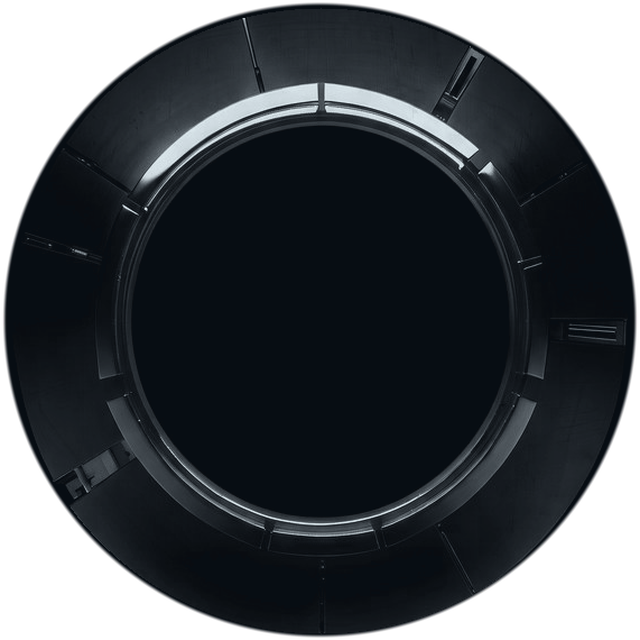
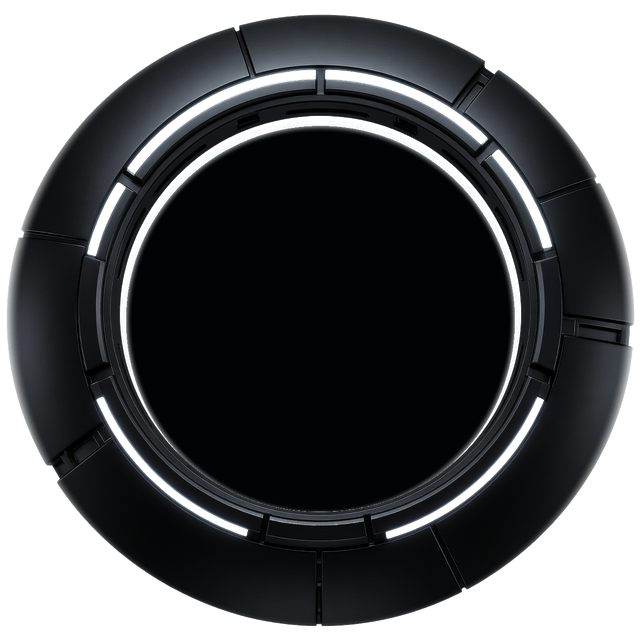
Reconstruit le cœur sur les quatre plaques détachées

Changed region(s): [[0.0, 0.0, 1.0, 1.0], [0.6875, 0.8438, 0.7188, 0.875]]

diff --git a/viewer/styles.css b/viewer/styles.css
@@ -40,12 +40,12 @@ button:focus-visible, input:focus-visible, textarea:focus-visible, a:focus-visib
 .core-ring img { animation: jarvis-core-spin 96s linear infinite; }
 /* Disque cyan lumineux, posé juste devant le logement métallique. */
 .core-disc { opacity: calc(.62 + .34 * var(--jarvis-voice)); transition: opacity .12s ease-out; }
-.core-disc img { width: 78%; height: 78%; mix-blend-mode: screen; animation: jarvis-core-spin 30s linear infinite; }
+.core-disc img { width: 72%; height: 72%; mix-blend-mode: screen; animation: jarvis-core-spin 30s linear infinite; }
 /* Verre strié en superposition légère : il donne la profondeur, pas la masse. */
-.core-veil { opacity: .40; transition: opacity .45s ease; }
-.core-veil img { width: 66%; height: 66%; mix-blend-mode: screen; animation: jarvis-core-spin-reverse 64s linear infinite; }
+.core-veil { opacity: .9; transition: opacity .45s ease; }
+.core-veil img { width: 90%; height: 90%; animation: jarvis-core-spin-reverse 64s linear infinite; }
 .core-light { opacity: calc(.74 + .26 * var(--jarvis-voice)); transition: opacity .12s ease-out; }
-.core-light img { width: 30%; height: 30%; mix-blend-mode: screen; animation: jarvis-core-pulse 3.8s ease-in-out infinite; }
+.core-light img { width: 40%; height: 40%; mix-blend-mode: screen; animation: jarvis-core-pulse 3.8s ease-in-out infinite; }
 .jarvis-core-beam { position: absolute; left: 50%; top: 62%; width: 46%; height: 62%; margin-left: -23%; transform: perspective(320px) rotateX(38deg); transform-origin: 50% 0; background: linear-gradient(180deg, rgba(120,235,255,.30), rgba(64,190,240,.10) 46%, transparent 86%); filter: blur(6px); opacity: .5; }
 .jarvis-core-base { position: absolute; left: 50%; top: 96%; width: 62%; height: 13%; margin-left: -31%; border-radius: 50%; background: radial-gradient(ellipse at center, rgba(96,226,255,.5), rgba(40,150,215,.14) 55%, transparent 78%); opacity: .55; }
 @keyframes jarvis-core-spin { from { transform: rotate(0deg); } to { transform: rotate(360deg); } }
@@ -54,7 +54,7 @@ button:focus-visible, input:focus-visible, textarea:focus-visible, a:focus-visib
 
 /* Parole : les anneaux accélèrent et s'éclairent, l'orbe bat plus vite. */
 body.jarvis-speaking .core-ring { opacity: 1; }
-body.jarvis-speaking .core-veil { opacity: .8; }
+body.jarvis-speaking .core-veil { opacity: 1; }
 body.jarvis-speaking .core-ring img { animation-duration: 34s; }
 body.jarvis-speaking .core-veil img { animation-duration: 22s; }
 body.jarvis-speaking .core-disc img { animation-duration: 11s; }
@@ -464,5 +464,5 @@ button:hover .chevron { color: var(--cyan); transform: translateX(2px); }
   *, *::before, *::after { scroll-behavior: auto !important; animation-duration: .01ms !important; animation-iteration-count: 1 !important; }
   .jarvis-core-layer img, .jarvis-core-beam { animation: none !important; }
   body.jarvis-speaking .core-ring { opacity: 1; }
-  body.jarvis-speaking .core-veil { opacity: .8; }
+  body.jarvis-speaking .core-veil { opacity: 1; }
 }

diff --git a/tools/build-jarvis-core.py b/tools/build-jarvis-core.py
@@ -4,14 +4,14 @@
 Ordre d'assemblage (du fond vers l'avant) :
 
 1. `jarvis-core-ring.png`   — couronne d'acier sombre (vue frontale)
-2. `jarvis-core-veil.png`   — anneau de verre strié
-3. `jarvis-core-disc.png`   — disque HUD cyan (perspective redressée)
-4. `jarvis-core-light.png`  — orbe lumineuse centrale
+2. `jarvis-core-veil.png`   — mécanique interne (anneaux et pignons)
+3. `jarvis-core-disc.png`   — anneau HUD cyan
+4. `jarvis-core-light.png`  — œil lumineux central
 
 Chaque calque est un PNG RGBA carré, centré, exporté à `EXPORT` pixels de côté.
-Les sources (`tools/sources/`) sont des images générées sur fond noir ou damier :
-le fond est estimé puis retiré, les traits de repère sont effacés, et les pièces
-vues en perspective sont redressées pour retrouver des cercles.
+Les sources (`tools/sources/`) sont les quatre plaques détachées sur fond blanc :
+chaque pièce est isolée par son écart au blanc, puis recadrée au plus juste pour que
+les quatre calques partagent exactement le même centre.
 
     python3 tools/build-jarvis-core.py             # écrit les quatre calques
     python3 tools/build-jarvis-core.py --preview   # + rendus de contrôle repos/parole
@@ -135,91 +135,90 @@ def measure(alpha: np.ndarray, threshold: float = 0.5) -> tuple[float, float, fl
     return cx, cy, radius
 
 
-def build_crown() -> None:
-    """Couronne d'acier : vue frontale déjà circulaire."""
-    rgb = load("metal-ring.jpg")
+def ink_field(rgb: np.ndarray) -> tuple[np.ndarray, np.ndarray, np.ndarray]:
+    """Écart au fond blanc des planches : noirceur et couleur, sans le grain JPEG."""
     lum = rgb.max(axis=2)
-    body = smooth(lum, 0.010, 0.050)
-    cx, cy, radius = measure(lum > 0.05)
-    cut_rgb, cut_alpha, cut_lum = crop_circle(rgb, body, cx, cy, radius * 1.01, companion=lum)
-    # Métal sombre : la masse reste presque noire, seules les arêtes chromées s'allument.
-    colour = np.clip(steel(cut_rgb, "#0d141c", "#f2fbff") ** 1.45 * 0.92, 0, 1)
-    colour, cut_alpha = solidify(cut_alpha, colour, "#070d13")
-    save(*to_square(colour, cut_alpha, EXPORT), "jarvis-core-ring.png")
+    sat = rgb.max(axis=2) - rgb.min(axis=2)
+    return np.maximum(1.0 - lum, sat * 0.9), lum, sat
+
+
+def radial_mask(rgb: np.ndarray, alpha: np.ndarray, radius: float) -> np.ndarray:
+    """Masque circulaire normalisé (1 au centre, 0 au bord) sur le rayon mesuré."""
+    cx, cy, _ = measure(alpha, 0.5)
+    yy, xx = np.mgrid[0:rgb.shape[0], 0:rgb.shape[1]]
+    return np.sqrt((xx - cx) ** 2 + (yy - cy) ** 2) / radius
+
+
+def finish(rgb: np.ndarray, alpha: np.ndarray, name: str) -> None:
+    """Recadre au plus juste, remet le carré et exporte."""
+    cx, cy, radius = measure(alpha, 0.5)
+    cut_rgb, cut_alpha, _ = crop_circle(rgb, alpha, cx, cy, radius * 1.02)
+    save(*to_square(cut_rgb, cut_alpha, EXPORT), name)
+
+
+def build_crown() -> None:
+    """Couronne d'acier : anneau extérieur, LED blanches, logement central opaque."""
+    rgb = load("crown.jpg")
+    ink, lum, sat = ink_field(rgb)
+    alpha = smooth(ink, 0.07, 0.20)
+    _, _, radius = measure(alpha, 0.5)
+    distance = radial_mask(rgb, alpha, radius)
+    # Le logement central est comblé : aucune transparence à l'intérieur du rond.
+    hole = 1.0 - smooth(distance, 0.60, 0.64)
+    alpha = np.maximum(alpha, hole)
+    low = np.array([0x07 / 255, 0x0d / 255, 0x13 / 255], dtype=np.float32)
+    blank = (lum > 0.92) & (sat < 0.04)
+    rgb = np.where((blank & (hole > 0.5))[:, :, None], low, rgb)
+    # Métal du logement : volontairement plus sombre que la planche, pour que le cœur
+    # reste un objet noir dans le cockpit et non un dôme gris.
+    rgb = np.clip((np.clip(rgb, 0, 1) ** 1.35) * np.array([0.90, 0.96, 1.0], dtype=np.float32), 0, 1)
+    finish(rgb, feather(alpha, 1.0), "jarvis-core-ring.png")
 
 
 def build_veil() -> None:
-    """Anneau de verre strié, détouré d'un damier gris (pas de halo résiduel)."""
-    rgb = load("glass-ring.jpg")
-    lum, sat = rgb.max(axis=2), rgb.max(axis=2) - rgb.min(axis=2)
-    glass = ((sat > 0.045) | ((lum < 0.55) & (lum > 0.03))).astype(np.float32)
-    solid = np.asarray(
-        Image.fromarray((glass * 255).astype(np.uint8)).filter(ImageFilter.MinFilter(5)),
-        dtype=np.float32,
-    ) / 255.0
-    # La planche contient des repères (traits fins) : on les efface avant de découper.
-    # La planche laisse une large marge noire : on cadre la bande utile en proportion.
-    top, bottom = int(rgb.shape[0] * 0.218), int(rgb.shape[0] * 0.770)
-    solid = despeckle(solid[top:bottom], 9)
-    cx, cy, radius = measure(solid)
-    solid = np.where((sat[top:bottom] < 0.035) & (lum[top:bottom] > 0.70), 0, solid)
-    cut_rgb, cut_alpha, cut_lum = crop_circle(
-        rgb[top:bottom], solid, cx, cy, radius * 1.02, companion=lum[top:bottom]
-    )
-    cut_alpha = cut_alpha * np.clip(cut_lum * 3.4 - 0.12, 0, 1)
-    colour = np.clip(steel(cut_rgb, "#0f1d27", "#dceff9") ** 1.35 * 1.05, 0, 1)
-    colour, cut_alpha = solidify(feather(cut_alpha, 1.0), colour, "#0a141d")
-    save(*to_square(colour, cut_alpha, EXPORT), "jarvis-core-veil.png")
+    """Mécanique interne : anneaux et pignons concentriques, acier sombre."""
+    rgb = load("gears.jpg")
+    ink, _, _ = ink_field(rgb)
+    # Seuil haut : le voile de compression autour des pignons ne doit pas laisser
+    # de brume carrée sur le fond.
+    alpha = smooth(ink, 0.16, 0.34)
+    rgb = np.clip((np.clip(rgb, 0, 1) ** 1.28) * 0.95, 0, 1)
+    finish(rgb, feather(alpha, 0.8), "jarvis-core-veil.png")
 
 
 def build_disc() -> None:
-    """Disque HUD cyan, vu de face : aucune perspective à corriger, aucun métal voisin."""
-    rgb = load("cyan-disc.jpg")
-    lum = rgb.max(axis=2)
-    sat = rgb.max(axis=2) - rgb.min(axis=2)
-    mask = despeckle(smooth(lum, 0.04, 0.18) * np.maximum(smooth(sat, 0.02, 0.10), 0.55), 7)
-    cx, cy, radius = measure(mask, threshold=0.30)
-    cut_rgb, cut_alpha, _ = crop_circle(rgb, mask, cx, cy, radius * 1.0)
-    colour, cut_alpha = solidify(feather(cut_alpha, 1.0), np.clip(cut_rgb * 1.05, 0, 1), "#04121c")
-    save(*to_square(colour, cut_alpha, EXPORT), "jarvis-core-disc.png")
+    """Anneau HUD cyan : la lumière sort du logement, le centre reste ouvert."""
+    rgb = load("hud-ring.jpg")
+    ink, _, _ = ink_field(rgb)
+    alpha = smooth(ink, 0.03, 0.10)
+    finish(np.clip(rgb * 1.04, 0, 1), feather(alpha, 0.9), "jarvis-core-disc.png")
 
 
 def build_light() -> None:
-    """Orbe lumineuse : disque plein, net, dont les rayons suivent la source.
-
-    La source empile un arc d'acier et l'orbe. On repère le centre de l'orbe (cyan
-    saturé), puis on reconstruit un disque parfaitement circulaire : la texture de la
-    source module la couleur, la teinte de comblement occupe les zones sombres.
-    """
-    rgb = load("orb-glow.jpg")
-    lum = rgb.max(axis=2)
-    sat = rgb.max(axis=2) - rgb.min(axis=2)
-    ys, xs = np.where((sat > 0.25) & (lum > 0.35))
-    if not len(xs):
-        raise SystemExit("Orbe centrale introuvable dans orb-glow.jpg")
-    cx, cy = float(xs.mean()), float(ys.mean())
-    radius = 104.0
-    height, width = lum.shape
-    yy, xx = np.mgrid[0:height, 0:width]
-    distance = np.sqrt((xx - cx) ** 2 + (yy - cy) ** 2) / radius
-    disc = 1.0 - smooth(distance, 0.90, 1.0)
-    texture = np.clip(lum * 1.35, 0, 1) ** 0.9
-    low = np.array([0x08 / 255, 0x2a / 255, 0x3d / 255], dtype=np.float32)
-    high = np.array([0.72, 0.95, 1.0], dtype=np.float32)
-    colour = low + (high - low) * feather(texture, 2.0)[:, :, None]
-    # Éclaircissement central : le noyau de l'orbe reste blanc.
-    core = 1.0 - smooth(distance, 0.10, 0.45)
-    colour = np.clip(colour + core[:, :, None] * np.array([0.55, 0.42, 0.30], dtype=np.float32), 0, 1)
-    cut_rgb, cut_alpha, _ = crop_circle(colour, disc, cx, cy, radius)
-    save(*to_square(cut_rgb, feather(cut_alpha, 1.4), EXPORT), "jarvis-core-light.png")
+    """Œil lumineux : le noyau blanc est comblé, le halo reste fondu."""
+    rgb = load("core-eye.jpg")
+    ink, lum, _ = ink_field(rgb)
+    alpha = smooth(ink, 0.02, 0.16)
+    # Le halo blanc de la planche est coupé net au bord du cerclage : sinon il forme
+    # un anneau laiteux autour de l'œil une fois posé sur le logement sombre.
+    bezel = smooth(1.0 - lum, 0.20, 0.42)
+    _, _, radius = measure(alpha, 0.5)
+    bezel_cx, bezel_cy, bezel_r = measure(bezel, 0.5)
+    yy, xx = np.mgrid[0:rgb.shape[0], 0:rgb.shape[1]]
+    bevel = np.sqrt((xx - bezel_cx) ** 2 + (yy - bezel_cy) ** 2) / bezel_r
+    alpha = np.minimum(alpha, 1.0 - smooth(bevel, 0.94, 1.02))
+    distance = np.sqrt((xx - bezel_cx) ** 2 + (yy - bezel_cy) ** 2) / bezel_r
+    # Noyau central : opaque, sinon le blanc laisserait un trou au milieu de l'œil.
+    alpha = np.maximum(alpha, 1.0 - smooth(distance, 0.55, 0.68))
+    finish(np.clip(rgb, 0, 1), feather(alpha, 1.2), "jarvis-core-light.png")
 
 
 LAYERS = (
     # (fichier, part du diamètre extérieur, mode de fusion, opacité repos, opacité parole)
-    ("jarvis-core-ring.png", 1.00, "normal", .90, 1.0),
-    ("jarvis-core-veil.png", .66, "screen", .45, .80),
-    ("jarvis-core-disc.png", .78, "screen", .85, 1.0),
-    ("jarvis-core-light.png", .30, "screen", .88, 1.0),
+    ("jarvis-core-ring.png", 1.00, "normal", .95, 1.0),
+    ("jarvis-core-veil.png", .90, "normal", .9, 1.0),
+    ("jarvis-core-disc.png", .72, "screen", .92, 1.0),
+    ("jarvis-core-light.png", .40, "screen", .95, 1.0),
 )
 
 

diff --git a/README.md b/README.md
@@ -28,7 +28,7 @@ Exemple :
 }
 ```
 
-Le cœur est composé de quatre calques PNG transparents dans `viewer/assets/`, assemblés du plus grand au plus petit comme la planche éclatée de référence : couronne d’acier (`jarvis-core-ring.png`), anneau de verre strié (`jarvis-core-veil.png`), disque HUD cyan (`jarvis-core-disc.png`) et orbe lumineuse (`jarvis-core-light.png`). L’interface reproduit la géométrie « cover » du décor pour que l’ensemble reste posé au-dessus du projecteur du cockpit. Les calques se régénèrent avec `python3 tools/build-jarvis-core.py` (Pillow et numpy requis, uniquement pour cette commande) ; les images sources sont dans `tools/sources/`.
+Le cœur est composé de quatre calques PNG transparents dans `viewer/assets/`, assemblés du plus grand au plus petit comme la planche éclatée de référence : couronne d’acier (`jarvis-core-ring.png`), mécanique interne (`jarvis-core-veil.png`), anneau HUD cyan (`jarvis-core-disc.png`) et œil lumineux (`jarvis-core-light.png`). L’interface reproduit la géométrie « cover » du décor pour que l’ensemble reste posé au-dessus du projecteur du cockpit. Les calques se régénèrent avec `python3 tools/build-jarvis-core.py` (Pillow et numpy requis, uniquement pour cette commande) ; les images sources sont dans `tools/sources/`.
 
 `config.json`, les captures créées par JARVIS et l'index de notes généré sont ignorés par Git. **Ne mettez pas vos notes privées dans le dépôt.** Les captures créées par « Souviens-toi que… » sont enregistrées dans `captures/` à l'intérieur de votre dossier de notes.
 
